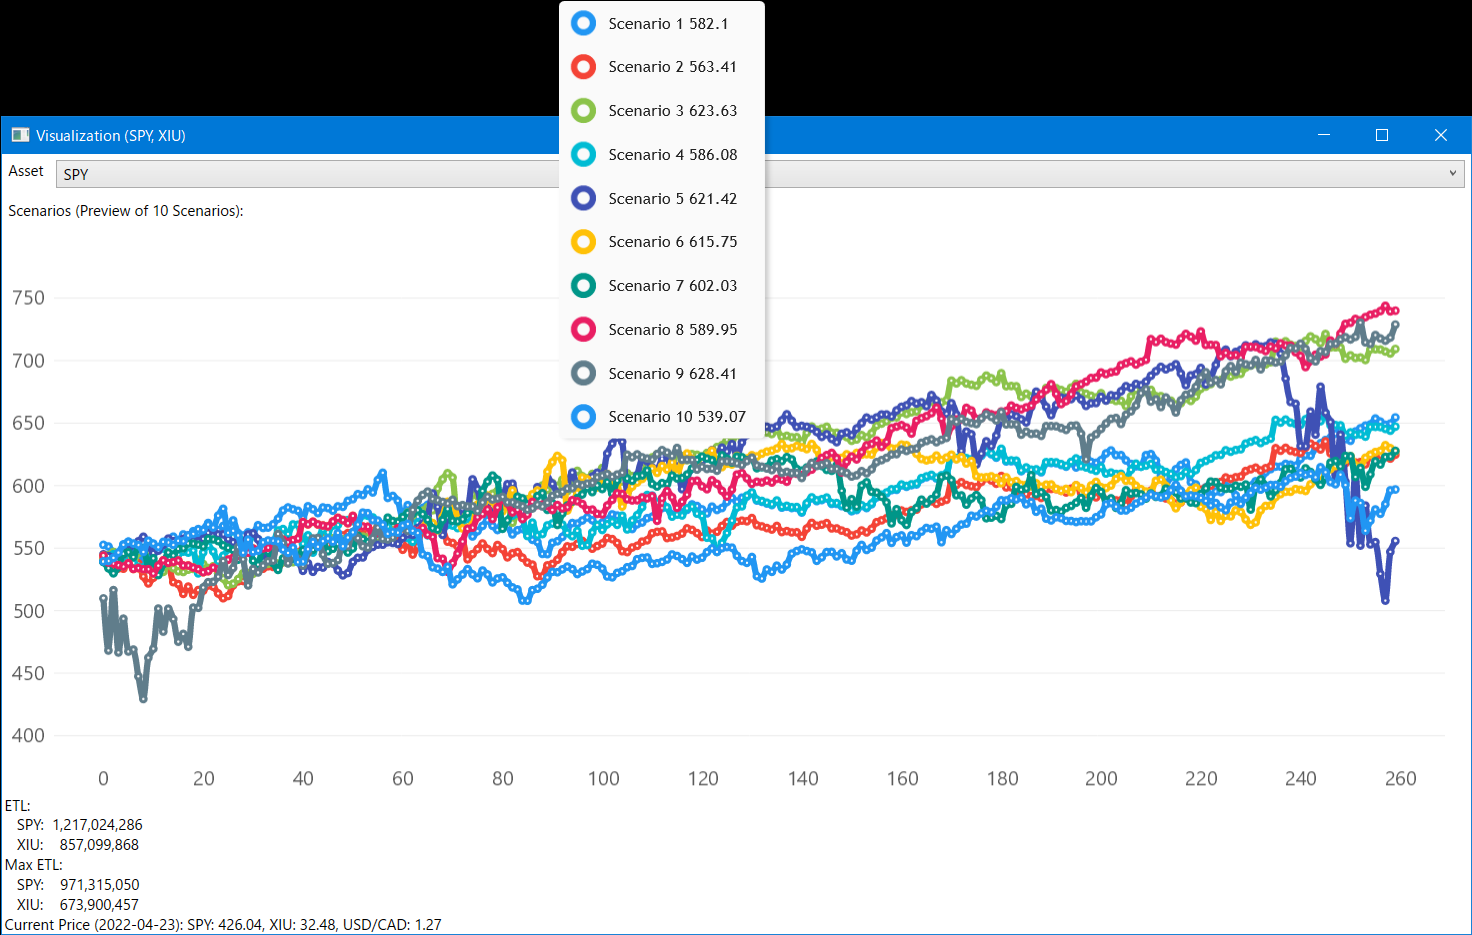
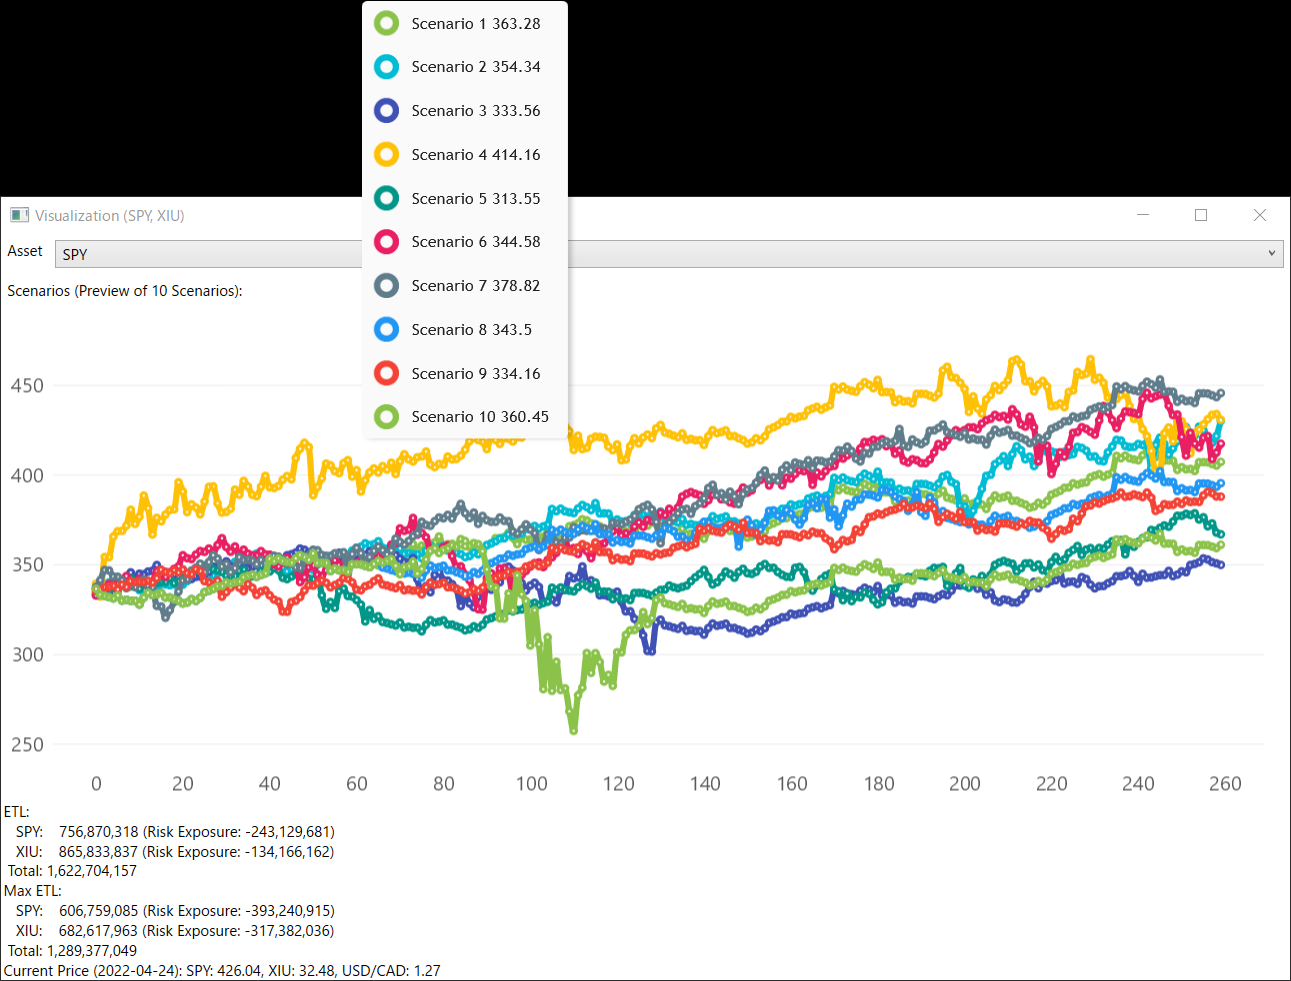
Fix Issues

diff --git a/PortfolioRisk.Core/Reporter.cs b/PortfolioRisk.Core/Reporter.cs
@@ -31,6 +31,7 @@ namespace PortfolioRisk.Core
             Report report = new Report(CurrentPrices, PriceDate);
             
             NormalizeCurrencyForPnL(config, annotateAssetCurrency, report);
+            ComputeOriginalInvestmentSize(config, report);
             ComputeETL(config, report);
             ComputeMaxETL(config, report);
 
@@ -47,12 +48,18 @@ namespace PortfolioRisk.Core
         #endregion
 
         #region Routines
+        private static void ComputeOriginalInvestmentSize(AnalysisConfig config, Report report)
+        {
+            report.InvestmentSize = report.PortfolioReturn.ToDictionary(
+                pnl => pnl.Asset,
+                pnl => config.TotalAllocation!.Value * config.Weights[config.Assets.IndexOf(pnl.Asset)]);
+        }
         private void ComputeETL(AnalysisConfig config, Report report)
         {
             report.ETL = report.PortfolioReturn.ToDictionary(pnl => pnl.Asset, pnl =>
                 pnl.Values.Select(pv => pv.Last()).OrderBy(d => d)
                     .Take(PortfolioAnalyzer.ETLWorstCaseTake)
-                    .Average() / CurrentPrices[pnl.Asset] * config.TotalAllocation!.Value * config.Weights[config.Assets.IndexOf(pnl.Asset)]);
+                    .Average() / CurrentPrices[pnl.Asset] * report.InvestmentSize[pnl.Asset]);
         }
         private void ComputeMaxETL(AnalysisConfig config, Report report)
         {
@@ -78,7 +85,7 @@ namespace PortfolioRisk.Core
                         double[][] exchangeRate = SimulationResults.Select(sr => sr[converter]).ToArray();
 
                         // Convert to CAD
-                        pnl = ElementWiseMultiply(pnl, exchangeRate, CurrentPrices[converter] * CurrentPrices[asset]);
+                        pnl = ElementWiseMultiply(pnl, exchangeRate, CurrentPrices[asset] / CurrentPrices[converter]);
                         break;
                     }
                     case AssetCurrency.CAD:

diff --git a/PortfolioRisk.Core/DataTypes/Report.cs b/PortfolioRisk.Core/DataTypes/Report.cs
@@ -41,6 +41,10 @@ namespace PortfolioRisk.Core.DataTypes
         public Dictionary<string, double> MaxETL { get; set; }
         
         public Dictionary<string,double> CurrentPrices { get; set; }
+        /// <summary>
+        /// Original size of investment as allocated by weight
+        /// </summary>
+        public Dictionary<string, double> InvestmentSize { get; set; }
         public DateTime PriceDate { get; set; }
         #endregion
 
@@ -51,13 +55,15 @@ namespace PortfolioRisk.Core.DataTypes
             if(!currentPriceLast)
                 builder.AppendLine(CurrentPrice());
             // ETL
-            builder.AppendLine("ETL:");
+            builder.AppendLine($"ETL:");
             foreach ((string symbol, double etl) in ETL) 
-                builder.AppendLine($" {symbol,5}:{(long)etl,15:N0}");
+                builder.AppendLine($" {symbol,5}:{(long)etl,15:N0} (Risk Exposure: {-(InvestmentSize[symbol] - etl),12:N0})");
+            builder.AppendLine($" Total: {ETL.Sum(e => e.Value):N0}");
             // Max ETL
-            builder.AppendLine("Max ETL:");
+            builder.AppendLine($"Max ETL:");
             foreach ((string symbol, double maxEtl) in MaxETL)
-                builder.AppendLine($" {symbol,5}:{(long)maxEtl,15:N0}");
+                builder.AppendLine($" {symbol,5}:{(long)maxEtl,15:N0} (Risk Exposure: {-(InvestmentSize[symbol] - maxEtl),12:N0})");
+            builder.AppendLine($" Total: {MaxETL.Sum(e => e.Value):N0}");
             // Current Prices
             if(currentPriceLast)
                 builder.AppendLine(CurrentPrice());

diff --git a/PortfolioRisk.Core/AnalysisConfig.cs b/PortfolioRisk.Core/AnalysisConfig.cs
@@ -23,10 +23,14 @@ namespace PortfolioRisk.Core
         #endregion
 
         #region Helpers
-        public bool ContainsMissingValue()
+        public bool ContainsMissingValue(out IEnumerable<string> missingAttributes)
         {
             // Automatically get all defined and thus required parameters for the configuration
             // and check whether any property is missing proper values
+            missingAttributes = GetType()
+                .GetProperties()
+                .Where(p => (p.GetValue(this) ?? null) == null)
+                .Select(p => p.Name);
             return GetType()
                 .GetProperties() 
                 .Select(p => p.GetValue(this) ?? null)

diff --git a/RiskTerminal/Program.cs b/RiskTerminal/Program.cs
@@ -136,7 +136,7 @@ namespace RiskTerminal
         static void Run(AnalysisConfig config)
         {
             // Check for missing inputs parameters
-            if (config.ContainsMissingValue())
+            if (config.ContainsMissingValue(out _))
             {
                 Console.WriteLine("Invalid command line format.");
                 return;

diff --git a/README.md b/README.md
@@ -98,11 +98,13 @@ For a *$CAD2B* portfolio with **SPY** and **XIU** weighted *1:1* invested on **2
 
 ```
 ETL:
-   SPY:  1,211,746,006
-   XIU:    849,664,103
+   SPY:    756,870,318 (Risk Exposure: -243,129,681)
+   XIU:    865,833,837 (Risk Exposure: -134,166,162)
+ Total: 1,622,704,157
 Max ETL:
-   SPY:    966,778,569
-   XIU:    670,735,737
+   SPY:    606,759,085 (Risk Exposure: -393,240,915)
+   XIU:    682,617,963 (Risk Exposure: -317,382,036)
+ Total: 1,289,377,049
 Current Price (2022-04-24): SPY: 426.04, XIU: 32.48, USD/CAD: 1.27
 ```
 
@@ -115,7 +117,7 @@ Graphically speaking (though this screenshot contains only the first 10 scenario
 ![XIU](./Example/Example-XIU.png)
 
 
-Another way is to consider the factors - for a total final simulated portfolio value of *2,061,410,109*, *1,211,746,006* comes from SPY and *849,664,103* comes from XIU. Out of this, since SPY is originally rated in USD, we should also be able to get its risk value in USD and get the USD/CAD exchange rate risk.
+Another way is to consider the factors - for a total final simulated portfolio value of *1,622,704,157*, *756,870,318* comes from SPY and *865,833,837* comes from XIU. Out of this, since SPY is originally rated in USD, we should also be able to get its risk value in USD and get the USD/CAD exchange rate risk.
 
 <!--
 * XIU
